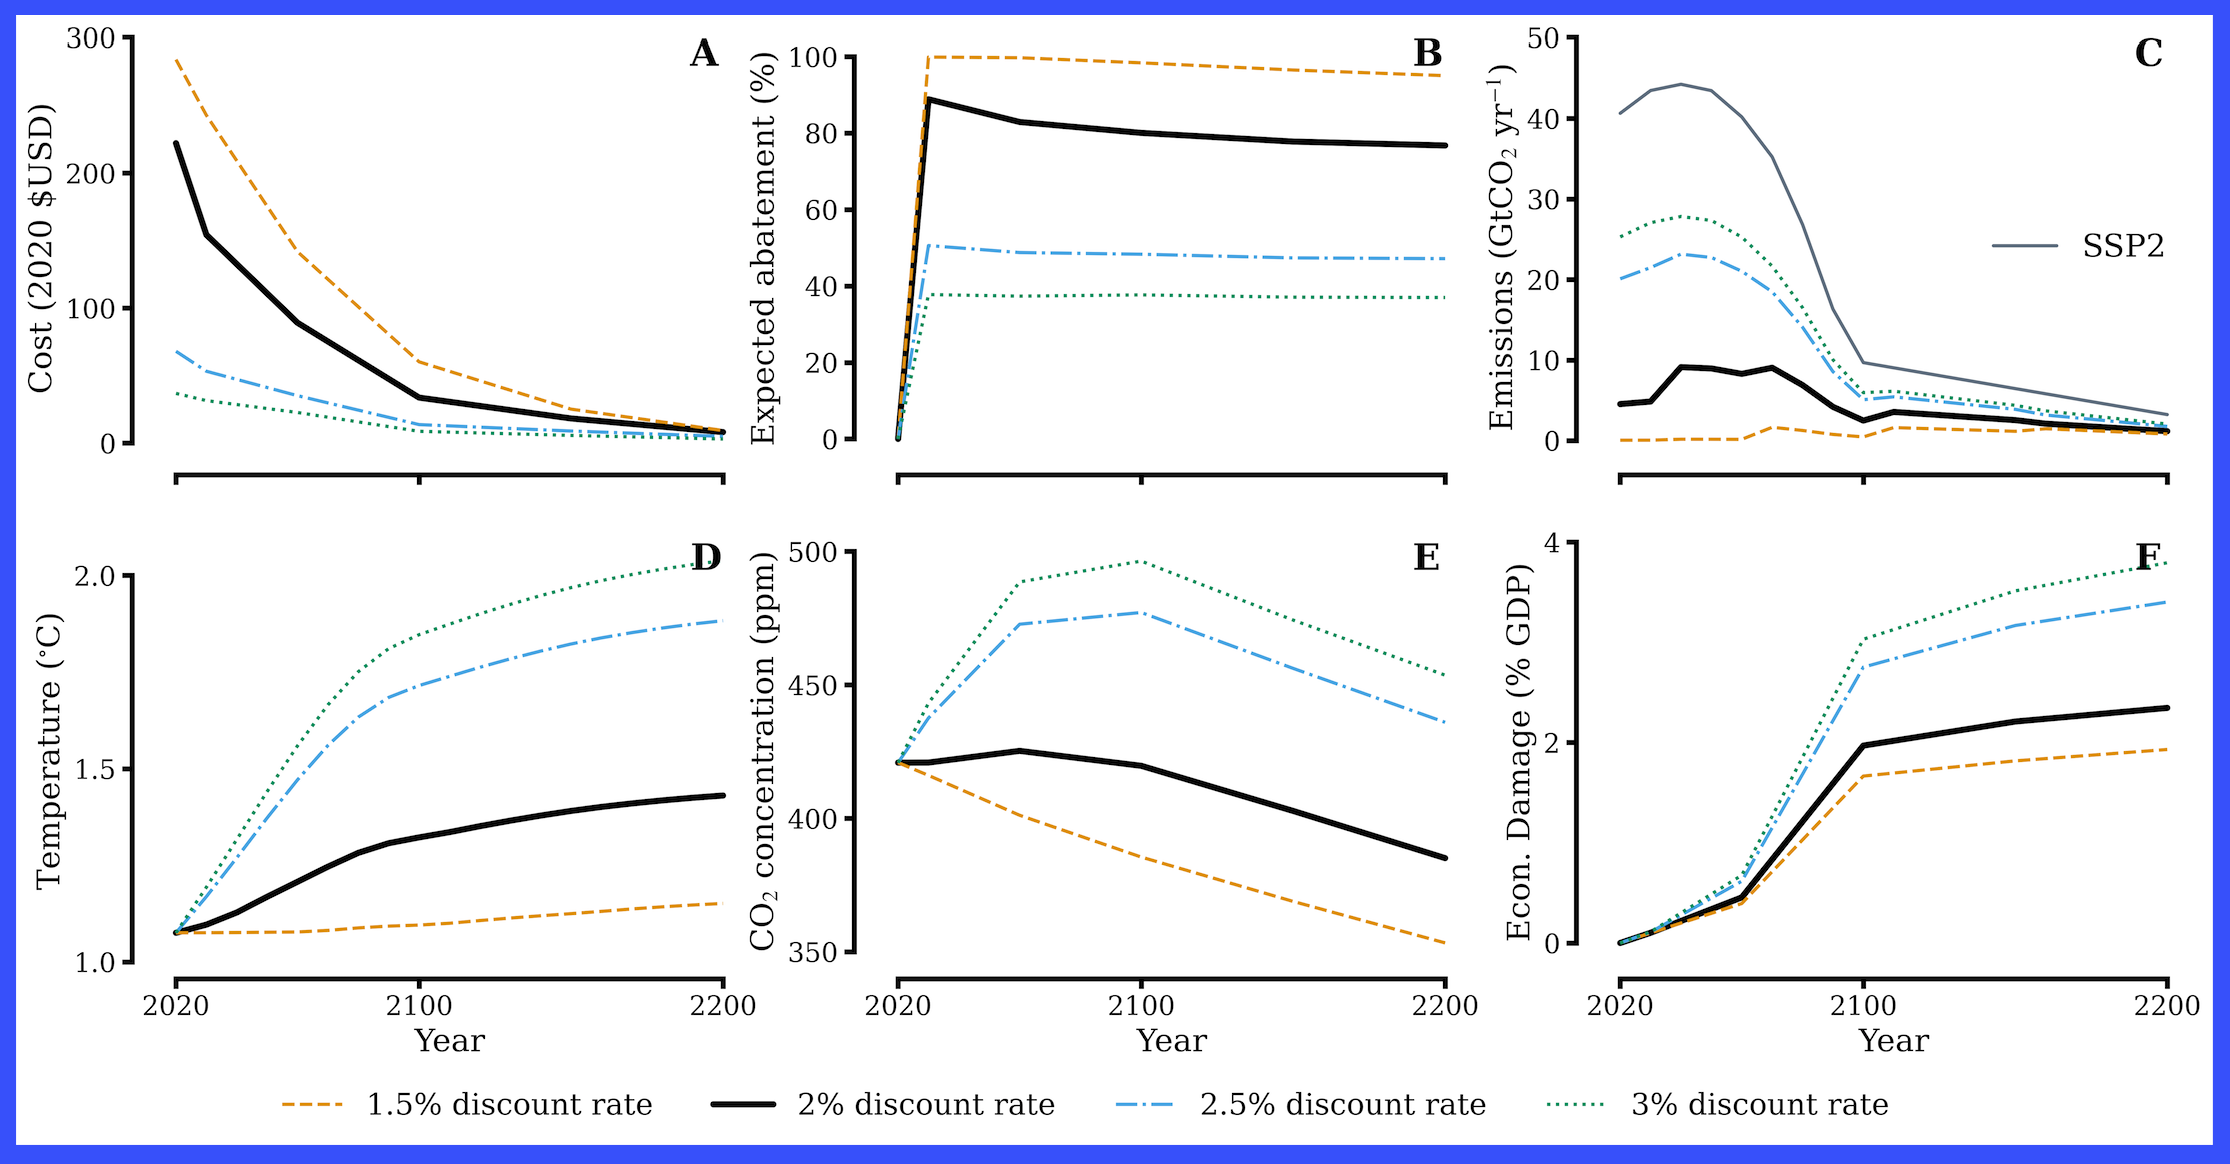
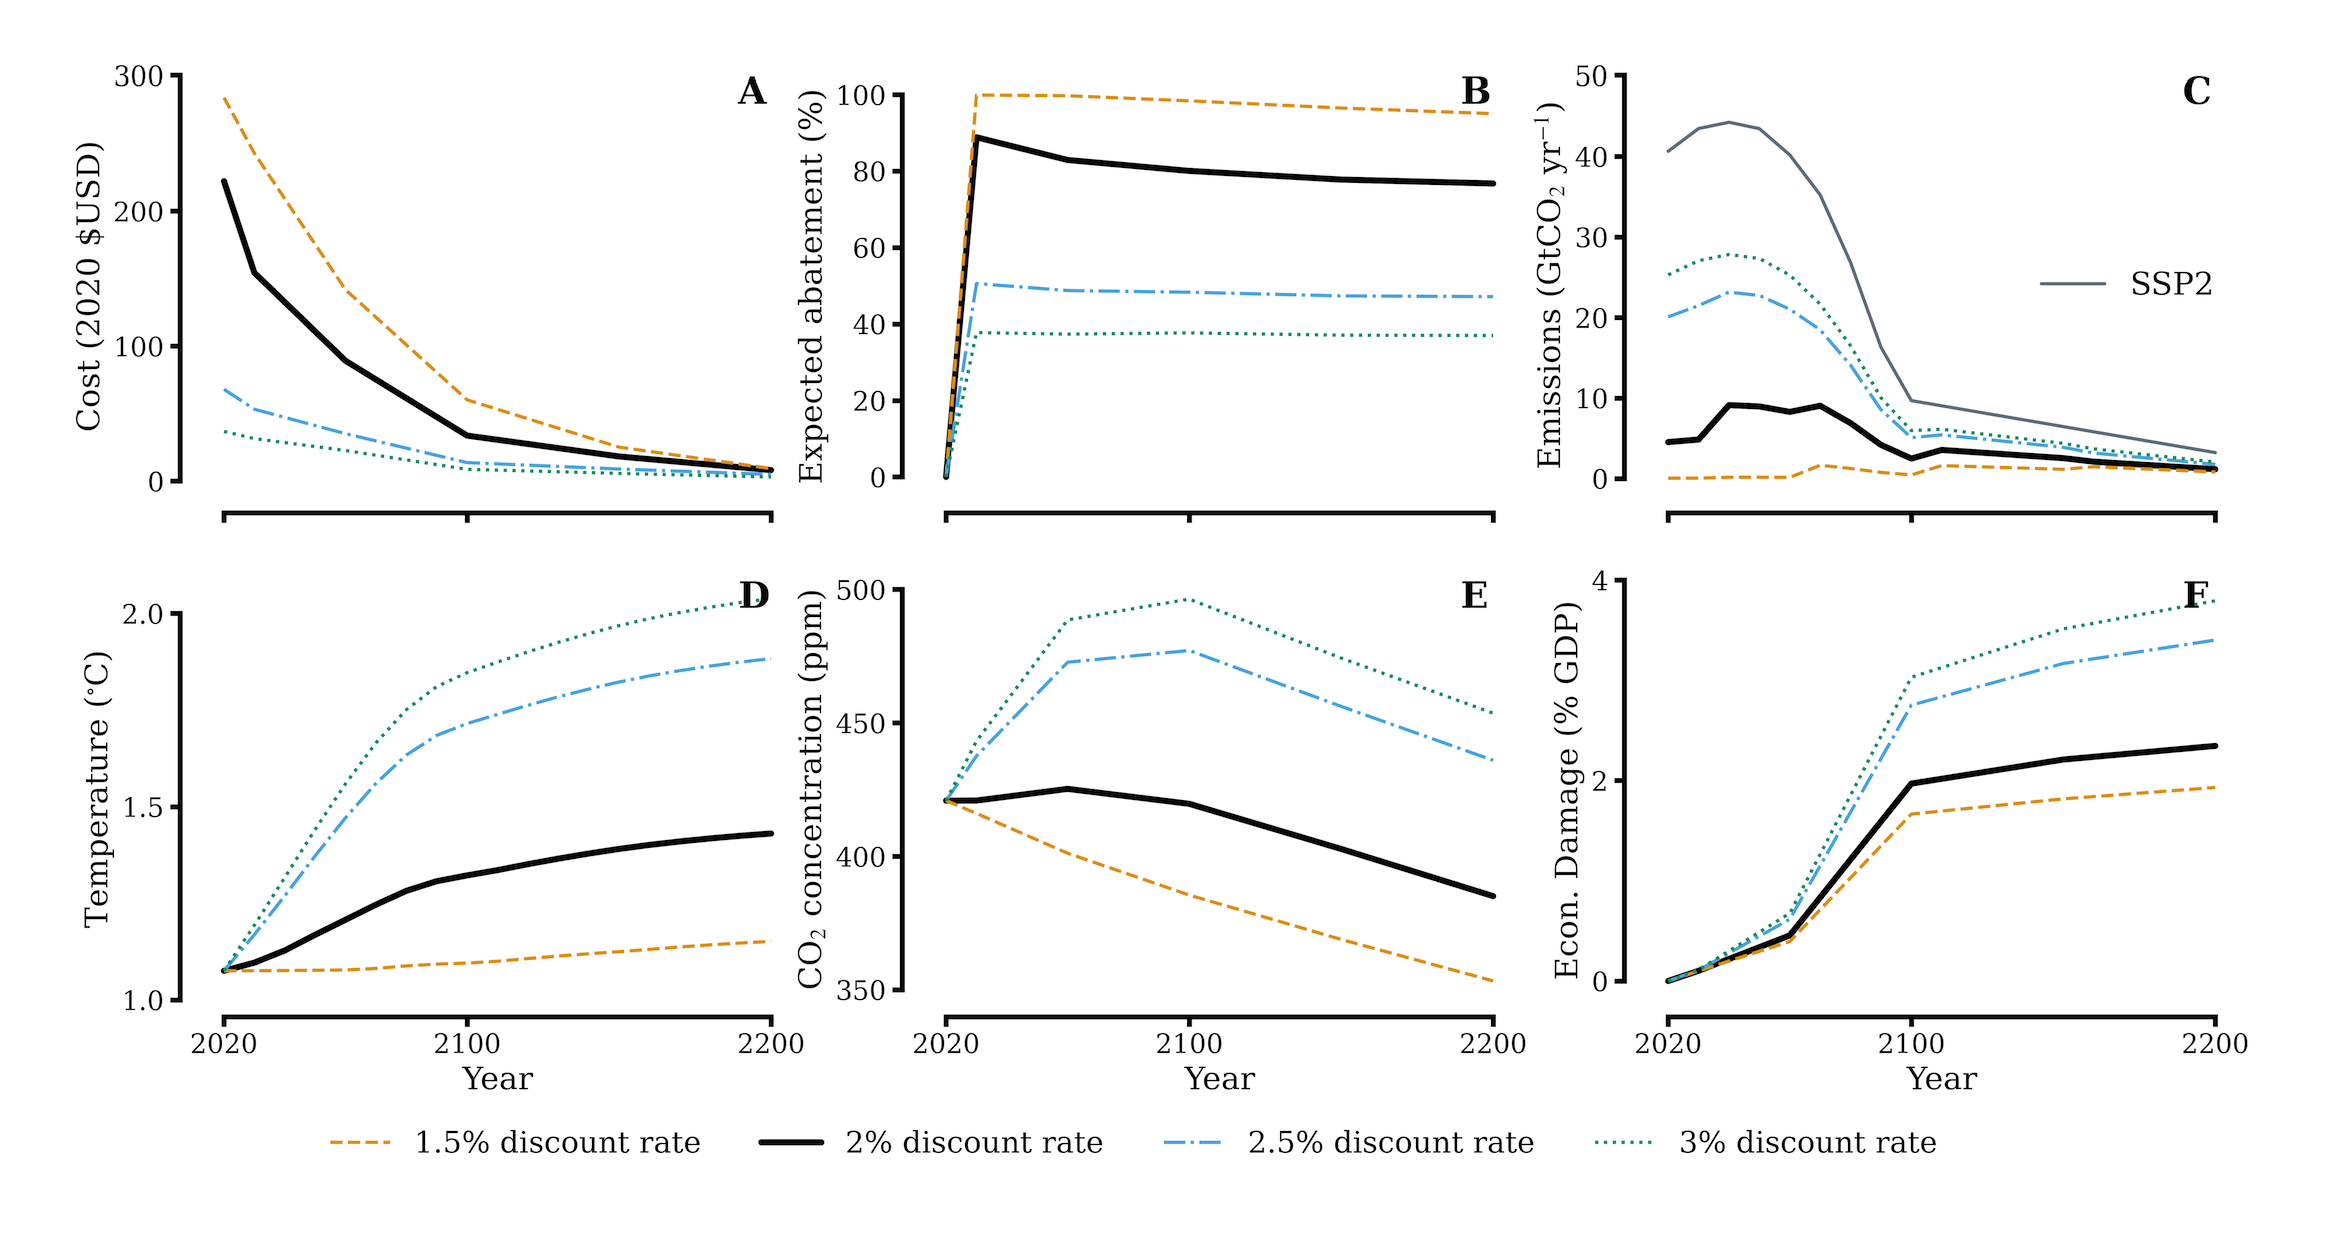
another image try

diff --git a/_projects/2022-01-31-spherical-accretion-mtog.md b/_projects/2022-01-31-spherical-accretion-mtog.md
@@ -2,7 +2,7 @@
 title: Spherical accretion in modified theories of gravity
 date: 2022-01-31 08:01:35 +0300
 subtitle: Black hole physics
-image: '/images/project-images/pfig_theta_bondi.jpeg'
+image: '/images/project-images/pfig_theta_bondi.png'
 ---
 
 # Project goal 
